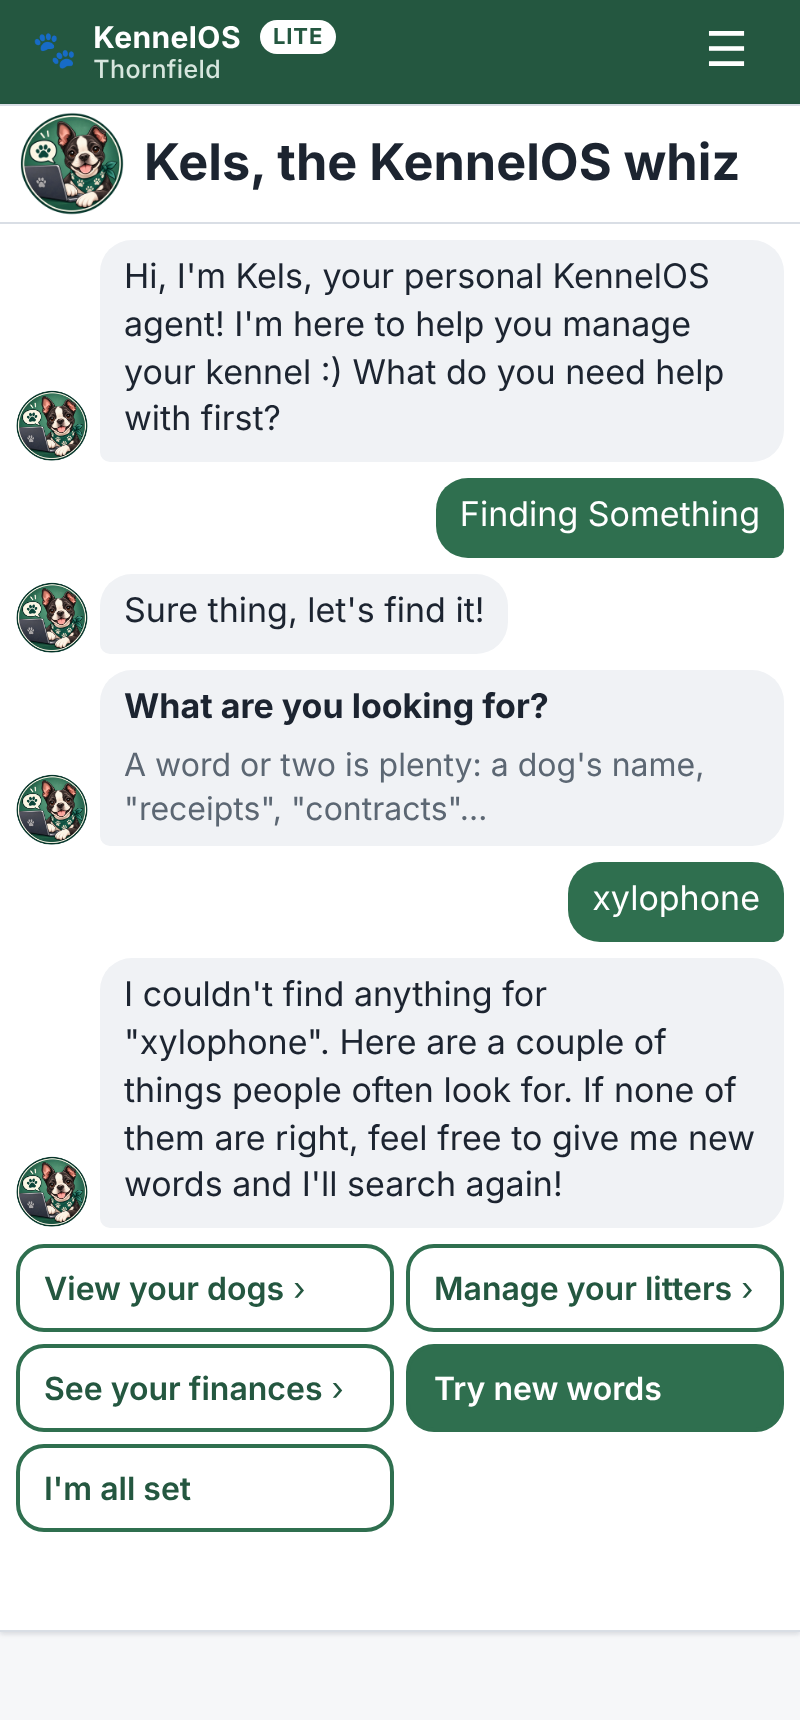
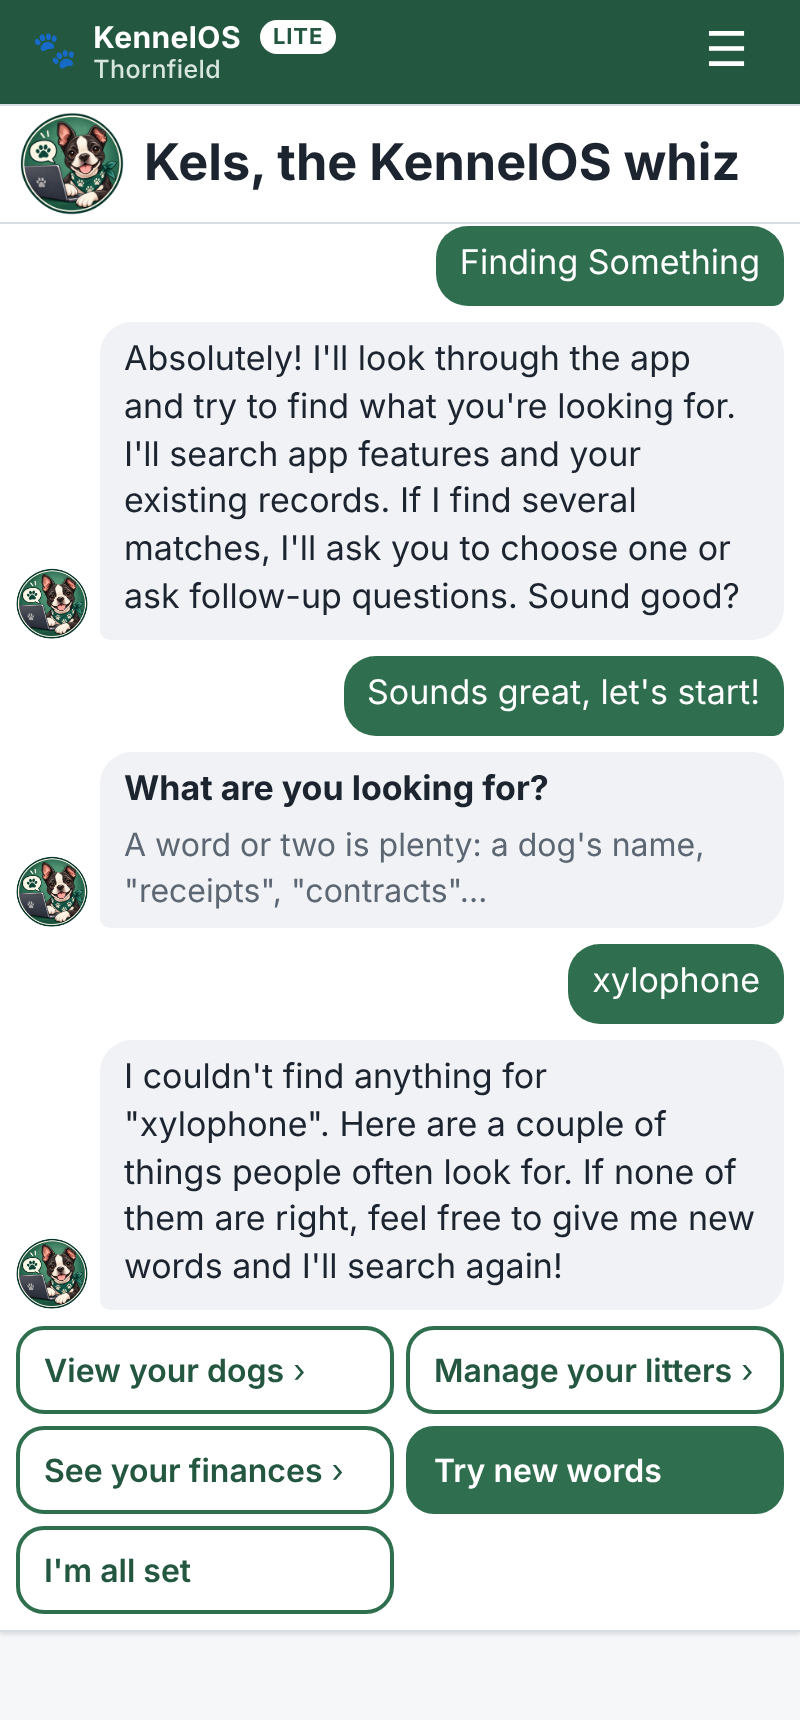
Kels Find: its own intro line, answered like every task's
Claude-Session: https://claude.ai/code/session_01A8URGsLoKbArbht69vfUZ6

diff --git a/shared/assets/kelsChat.js b/shared/assets/kelsChat.js
@@ -28,6 +28,8 @@ export const kelsWelcome = () => `${kelsHello()} I'm here to help you manage you
 // How she works, said at the start of every new task (not a resumed one), after
 // the task's own opener. The answers are INTRO_CHOICES.
 export const KELS_INTRO = 'I\'ll ask you some questions; once I\'m done collecting the information, I\'ll build the records for you to approve. If you get stuck or need to save and come back, I\'ll save what we\'ve got so far until you\'re ready to continue. Sound good?';
+// Finding Something's version: it searches, so there are no records to approve.
+export const KELS_FIND_INTRO = 'I\'ll look through the app and try to find what you\'re looking for. I\'ll search app features and your existing records. If I find several matches, I\'ll ask you to choose one or ask follow-up questions. Sound good?';
 const INTRO_CHOICES = [
   { label: 'Sounds great, let\'s start!', value: 'start', primary: true },
   { label: 'Never mind', value: 'nevermind' }
@@ -226,8 +228,9 @@ export function createChat(box) {
 
     // A new task's start: her `opener` (trusted markup: "Sure thing, let's…"),
     // KELS_INTRO, and Sounds great / Never mind. → true to go ahead.
-    async intro(opener) {
-      await this.say(`${opener} ${KELS_INTRO}`, { typing: 900 });
+    // `how`: what she'll do, after the opener (KELS_INTRO unless a task says otherwise).
+    async intro(opener, how = KELS_INTRO) {
+      await this.say(`${opener} ${how}`, { typing: 900 });
       return (await this.choose(INTRO_CHOICES)) === 'start';
     },
 

diff --git a/shared/assets/kelsFindUI.js b/shared/assets/kelsFindUI.js
@@ -15,6 +15,7 @@ import { eventRepo } from '../data/eventRepo.js';
 import { resolveKennelIdForWrite } from '../data/kennelScope.js';
 import { edition, editionFlags, navItems, moreItems } from '../data/editionConfig.js';
 import { esc, fmtDate } from './ui.js';
+import { KELS_FIND_INTRO } from './kelsChat.js';
 
 // What she offers when nothing matches: the places most people are after
 // (cheat-sheet ids), each only where this edition has it.
@@ -51,8 +52,8 @@ const whyText = (why) => (why ? why.replace(/ ?(\d{4}-\d{2}-\d{2})/, (m, d) => `
 const foundIn = (h, words) => (h.why ? ` I found "${esc(words.join(' '))}" in ${h.why === 'notes' ? 'the notes' : esc(whyText(h.why))}.` : '');
 
 export async function runFindTask(chat, { onExit = () => {}, handoff = null, tasks = [] } = {}) {
+  if (!(await chat.intro('Absolutely!', KELS_FIND_INTRO))) return onExit('nevermind');
   let candidates = null;
-  await chat.say('Sure thing, let\'s find it!', { typing: 500 });
   let prompt = '<strong>What are you looking for?</strong><span class="kels-lead">A word or two is plenty: a dog\'s name, "receipts", "contracts"…</span>';
   for (;;) {
     const res = await chat.form({

diff --git a/docs/End_State_Design_and_Maintenance_Guide.md b/docs/End_State_Design_and_Maintenance_Guide.md
@@ -1779,8 +1779,11 @@ isn't closed (**Check in with Kels**, `kels.html?task=checkin&litter=<id>`).
 ### "Finding Something"
 `assets/kelsFindUI.js` + `data/kelsFind.js` (the engine) + `data/kelsKnowledge.js` (the cheat
 sheet) + `data/findRecords.js` (her records as candidates); the three data modules are pure
-and tested (`tests/kelsFind.test.js`). Reads only; no `KELS_INTRO` (it builds nothing): "Sure
-thing, let's find it!", then a search box.
+and tested (`tests/kelsFind.test.js`). Reads only. It opens with `chat.intro('Absolutely!',
+KELS_FIND_INTRO)`: "I'll look through the app and try to find what you're looking for. I'll
+search app features and your existing records. If I find several matches, I'll ask you to
+choose one or ask follow-up questions. Sound good?" (in place of `KELS_INTRO`, since it
+builds nothing), then a search box.
 - **Candidates:** `{ id, group, title, sub, where, href | taskId, boost, levels, numbers?,
   facets? }`. **Places:** `kelsKnowledge.PLACES`, written by us, each with the sentence she
   says (`where`, naming hubs by this edition's menu labels) and a link (a tab in its query

diff --git a/docs/KennelOS_Kels_Roadmap.md b/docs/KennelOS_Kels_Roadmap.md
@@ -256,8 +256,9 @@ without opening each dog's page. Also how Add dogs (§3.8) brings in a new dog's
 
 ### 3.11 Help me find / do / understand: **L**, all editions — Find: steps 1–2 **Built**
 As built: End-State guide §33 ("Finding Something", "The top"); history in
-`docs/BUILD_LOG.md`. **Modified:** Find has no `KELS_INTRO` (§2.7), since it asks one thing
-and builds nothing; synonyms and slips are their own lower passes, after her words
+`docs/BUILD_LOG.md`. **Modified:** Find's intro (§2.7) is its own how-it-works line
+(`KELS_FIND_INTRO`: it searches features and records, and asks when there are several)
+in place of `KELS_INTRO`, since it builds nothing; synonyms and slips are their own lower passes, after her words
 themselves at every level (a typo or a synonym never hides an exact word deeper down); a
 search that finds nothing offers View your dogs / Manage your litters / See your finances /
 See your contacts / Sharing your pups, or new words. Still to build: steps 3–4.

diff --git a/docs/BUILD_LOG.md b/docs/BUILD_LOG.md
@@ -1315,3 +1315,4 @@ feature. Current design lives in the plans/specs in `docs/`; the `shared/` code 
   the cheat sheet needed "puppy payments", "stud my dog", "people on waitlist". All fixed.
   The tidy-up's "contact", "breeder", "kennel" and "stud" keywords are now Pro-gated
   (Lite's Find offered the tidy-up for "contacts").
+- **Kels Find intro (2026-10-15).** Finding Something opens like every task, with `chat.intro`: "Absolutely!" and its own how-it-works line (`KELS_FIND_INTRO`; `intro(opener, how)` takes it), answered Sounds great, let's start! / Never mind. The no-match places add Sharing your pups (Pro).
